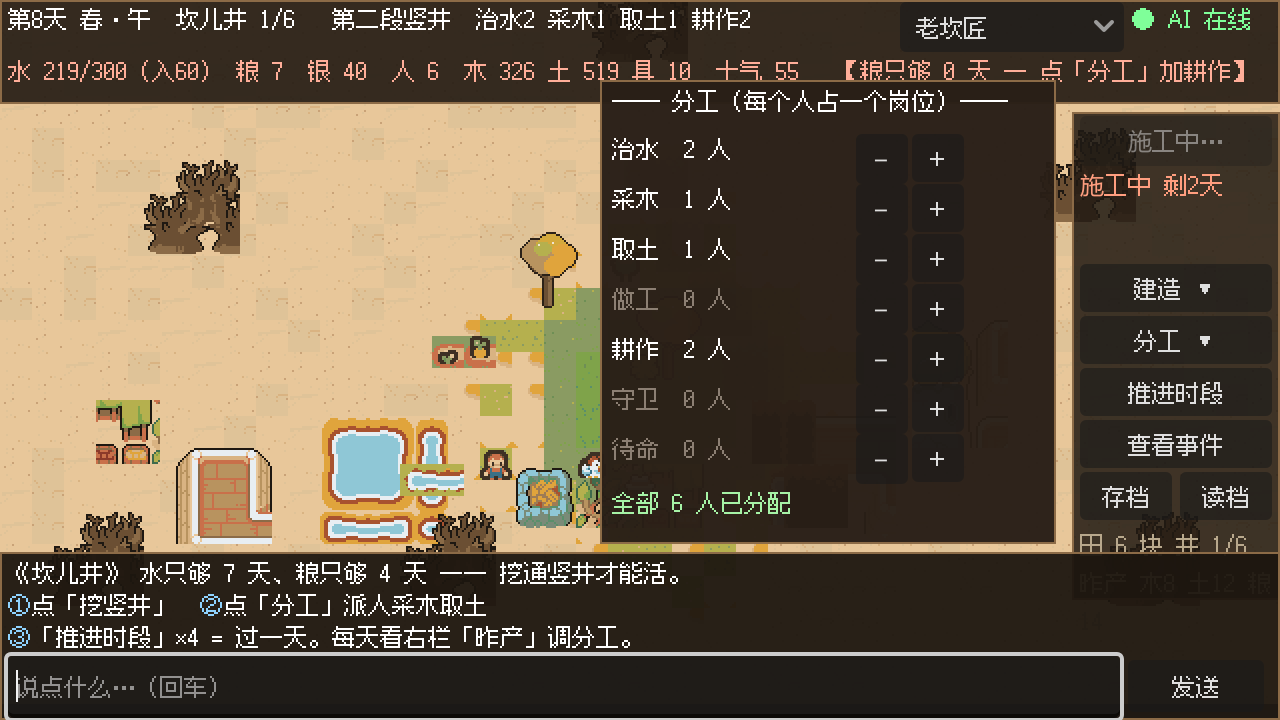
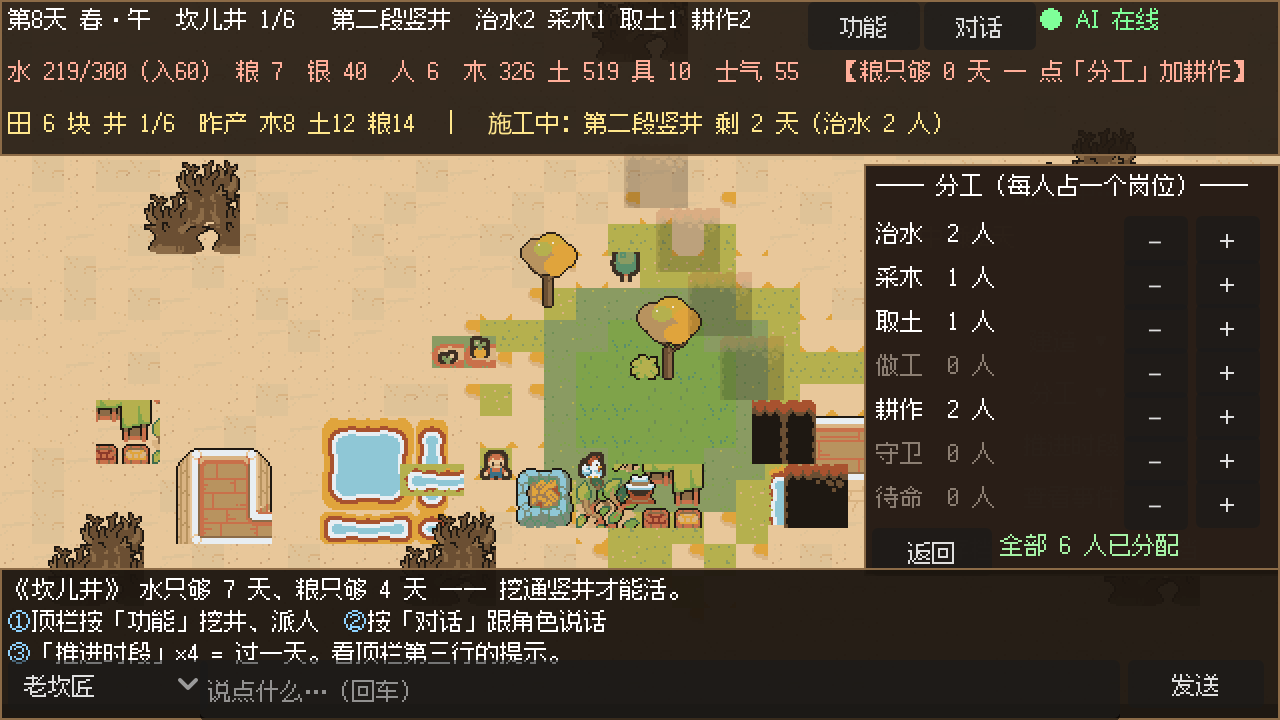
界面改成游戏的样子：面板默认隐藏，顶栏三行常驻
用户反馈「当前的人员分配把主地图挡住了一半，根本看不到」，
要求「设置用于打开和隐藏的按钮，正常情况下右侧和下方任务栏均保持隐藏」。

改动：
- 右侧功能栏与底部对话栏**默认隐藏**，顶栏加「功能」「对话」两个开关
- 分工页与建造页从「浮在地图中间的弹层」改为**铺在右侧栏自己的位置上**
  （这是挡住地图的根因：面板浮层放在 x=300 正中）
- 右侧栏宽度 104 -> 208。104 放不下「岗位名 + − + ＋」一行，
  第一版就是因此才把面板浮到地图中央
- 顶栏从 2 行扩到 3 行，第三行是常驻的「现在该做什么」：
  「田 6 块 井 1/6　昨产 木8 土12 粮14 │ 施工中：第二段竖井 剩2天（治水2人）」
  缺料时直接给出处，例如「不能开挖：缺 土差12 —— 点「功能」派人取土」
- 对话对象选框从顶栏移到「对话」栏里（它本来就属于对话这件事）
- 底栏不再默认 grab_focus：否则方向键会被输入框吃掉，开局角色走不动
- 分工页的「没人了」提示改为显示在面板内，不再写进日志 ——
  写进日志的话状态变了那句话还留着，会误导（用户截图里就出现了
  「还有 5 人没安排」和「没有空闲人手了」并存的情况）

新增截图：S3_面板全隐（地图整片可见）、S3_分工面板
玩法指南补了界面说明章节

验证：logic_test 114/114、verify.py PASS 152、五张截图确认无遮挡无重叠

diff --git a/docs/07-how-to-play.md b/docs/07-how-to-play.md
@@ -6,6 +6,33 @@
 
 ---
 
+## 〇、界面：只有顶栏是常驻的
+
+游戏把地图整片留给你，**右侧功能栏和底部对话栏默认都是收起的**：
+
+```
+┌──────────────────────────────────────────────────────┐
+│ 第8天 春·午  坎儿井 1/6  第二段竖井  治水2采木1取土1耕作2 │ ← 常驻
+│ 水 219/300  粮 7  银 40  人 6  木 326 土 519 具 10 士气55 │   【粮只够0天→加耕作】
+│ 田 6 块 井 1/6  昨产 木8 土12 粮14 │ 施工中：第二段竖井 剩2天（治水2人）│
+└──────────────────────────────────────────────────────┘
+                    [ 功 能 ]  [ 对 话 ]   ← 两个开关
+┌──────────────────────────────────────────────────────┐
+│                                                      │
+│                      地　图（整片）                    │
+│                                                      │
+└──────────────────────────────────────────────────────┘
+```
+
+| 按钮 | 打开什么 | 什么时候用 |
+|---|---|---|
+| **功能** | 右侧栏：挖竖井 / 建造 / 分工 / 推进时段 / 查看事件 / 存档 | 要干活的时候 |
+| **对话** | 底栏：对话日志 + 选对象 + 输入框 | 要和角色说话的时候 |
+
+**顶栏第三行是给你看的**：它会随状态变化告诉你现在能做什么、缺什么、该点哪里。
+
+---
+
 ## 一、一句话目标
 
 **在饿死之前，把坎儿井挖通。**
